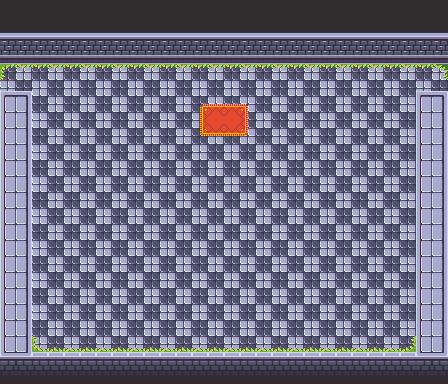
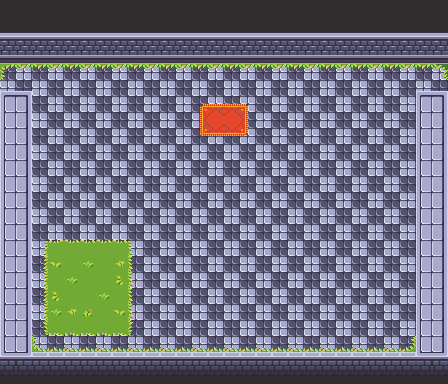
Log Decoration

Changed region(s): [[0.0938, 0.625, 0.3125, 0.875]]

diff --git a/srcs/scenes/scene_world.c b/srcs/scenes/scene_world.c
@@ -44,6 +44,9 @@ typedef struct	s_world
 	t_entity	pot7;
 	t_entity	pot8;
 
+	t_entity	ll;
+	t_entity	rl;
+
 	t_entity	chest;
 
 	t_bar		health;
@@ -103,6 +106,9 @@ void	*world_init(SDLX_scene_cxt *context, SDL_UNUSED void *vp_scene)
 	static_environment_init(&(world->wall3), 256, 96, world->collision);
 	static_environment_init(&(world->wall4), 256, 64, world->collision);
 
+	static_environment_rl_init(&(world->rl), 64, 240, world->collision);
+	static_environment_ll_init(&(world->ll), 64, 240, world->collision);
+
 	pot_init(&(world->pot1), 192, 		96 + 16 * 4, world->collision);
 	pot_init(&(world->pot2), 192, 		96 + 16 * 6, world->collision);
 	pot_init(&(world->pot3), 192, 		96 + 16 * 8, world->collision);
@@ -115,8 +121,8 @@ void	*world_init(SDLX_scene_cxt *context, SDL_UNUSED void *vp_scene)
 
 	SDL_LockSurface(world->collision);
 
-	init_bar_system(&(world->health), 0, fetch_bar_sprite, 100, (SDL_Rect){5, -4, 32 * 3, 32}, 16, 3);
-	init_bar_system(&(world->mana), 5, fetch_bar_sprite, 100, (SDL_Rect){12, 21, 80, 32}, 16, 12);
+	init_bar_system(&(world->health), 0, fetch_bar_sprite, 100, (SDL_Rect){5, -4, 32 * 3, 32}, 17, 3);
+	init_bar_system(&(world->mana), 5, fetch_bar_sprite, 100, (SDL_Rect){15, 21, 80, 32}, 14, 12);
 	(void)context;
 	(void)vp_scene;
 	return (NULL);
@@ -190,6 +196,9 @@ void	*world_update(SDL_UNUSED SDLX_scene_cxt *context, void *vp_scene)
 	static_environment_update(&(world->wall2), world->space->x, world->space->y);
 	static_environment_update(&(world->wall3), world->space->x, world->space->y);
 	static_environment_update(&(world->wall4), world->space->x, world->space->y);
+
+	static_environment_update(&(world->ll), world->space->x, world->space->y);
+	static_environment_update(&(world->rl), world->space->x, world->space->y);
 
 	move_viewport(&(world->local_x), &(world->local_y), &(world->space->x), &(world->space->y));
 

diff --git a/srcs/entity/environment.c b/srcs/entity/environment.c
@@ -33,3 +33,27 @@ void	static_environment_init(t_entity *env, int x, int y, SDL_Surface *collision
 
 	new_static_sprite(&(env->sprite), 1, 3, 2, 8, 1, 1, collision_map);
 }
+
+void	static_environment_ll_init(t_entity *env, int x, int y, SDL_Surface *collision_map)
+{
+	env->sprite = SDLX_Sprite_Static(ASSETS"left_log.png");
+	env->sprite.dst = SDLX_NULL_SELF;
+	env->sprite._dst = (SDL_Rect){x, y, 32, 80};
+
+	env->world_x = x;
+	env->world_y = y;
+
+	new_static_sprite(&(env->sprite), 2, 5, 0, 8, 0, 6, collision_map);
+}
+
+void	static_environment_rl_init(t_entity *env, int x, int y, SDL_Surface *collision_map)
+{
+	env->sprite = SDLX_Sprite_Static(ASSETS"right_log.png");
+	env->sprite.dst = SDLX_NULL_SELF;
+	env->sprite._dst = (SDL_Rect){x + 32, y, 32, 80};
+
+	env->world_x = x + 32;
+	env->world_y = y;
+
+	new_static_sprite(&(env->sprite), 2, 5, 0, 8, 3, 3, collision_map);
+}

diff --git a/includes/main.h b/includes/main.h
@@ -81,6 +81,9 @@ void	pot_init(t_entity *pot, int x, int y, SDL_Surface *collision_map);
 void	static_environment_update(t_entity *env, int world_x, int world_y);
 void	static_environment_init(t_entity *env, int x, int y, SDL_Surface *collision_map);
 
+void	static_environment_rl_init(t_entity *env, int x, int y, SDL_Surface *collision_map);
+void	static_environment_ll_init(t_entity *env, int x, int y, SDL_Surface *collision_map);
+
 void	chest_update(t_entity *chest, int world_x, int world_y);
 void	chest_init(t_entity *chest, int x, int y, SDL_Surface *collision_map);
 
